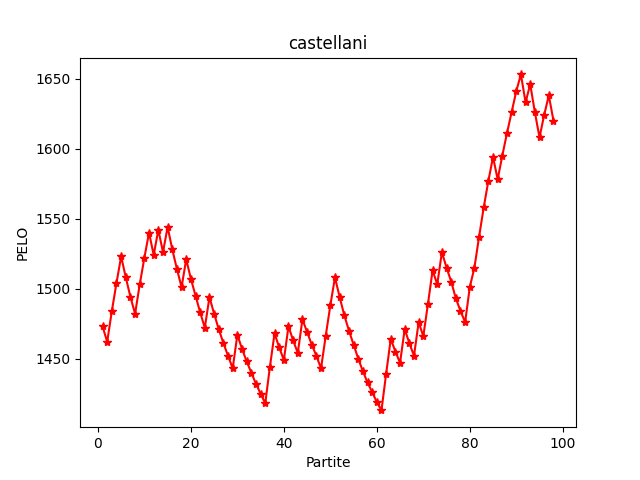
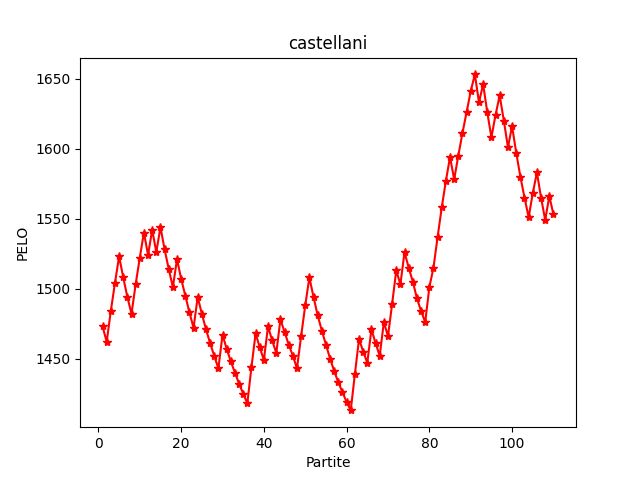
Add files via upload

diff --git a/index.htm b/index.htm
@@ -26,12 +26,12 @@
     </tr>
     <tr>
       <th>1</th>
-      <td><a href='castellani.png'>castellani</a></td>
-      <td>1620</td>
-      <td>259</td>
-      <td>111</td>
-      <td>2390</td>
-      <td>2614</td>
+      <td><a href='zontini.png'>zontini</a></td>
+      <td>1633</td>
+      <td>143</td>
+      <td>77</td>
+      <td>1436</td>
+      <td>1367</td>
     </tr>
     <tr>
       <th>2</th>
@@ -53,21 +53,21 @@
     </tr>
     <tr>
       <th>4</th>
-      <td><a href='zontini.png'>zontini</a></td>
-      <td>1564</td>
-      <td>137</td>
-      <td>72</td>
-      <td>1375</td>
-      <td>1317</td>
+      <td><a href='castellani.png'>castellani</a></td>
+      <td>1553</td>
+      <td>271</td>
+      <td>115</td>
+      <td>2497</td>
+      <td>2725</td>
     </tr>
     <tr>
       <th>5</th>
       <td><a href='caprile.png'>caprile</a></td>
-      <td>1535</td>
-      <td>103</td>
-      <td>65</td>
-      <td>1069</td>
-      <td>895</td>
+      <td>1545</td>
+      <td>109</td>
+      <td>68</td>
+      <td>1119</td>
+      <td>952</td>
     </tr>
     <tr>
       <th>6</th>
